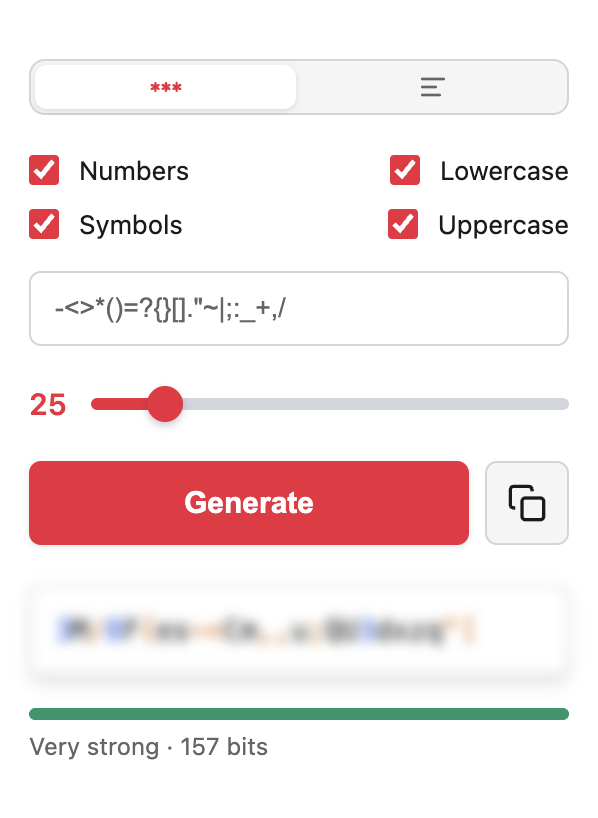
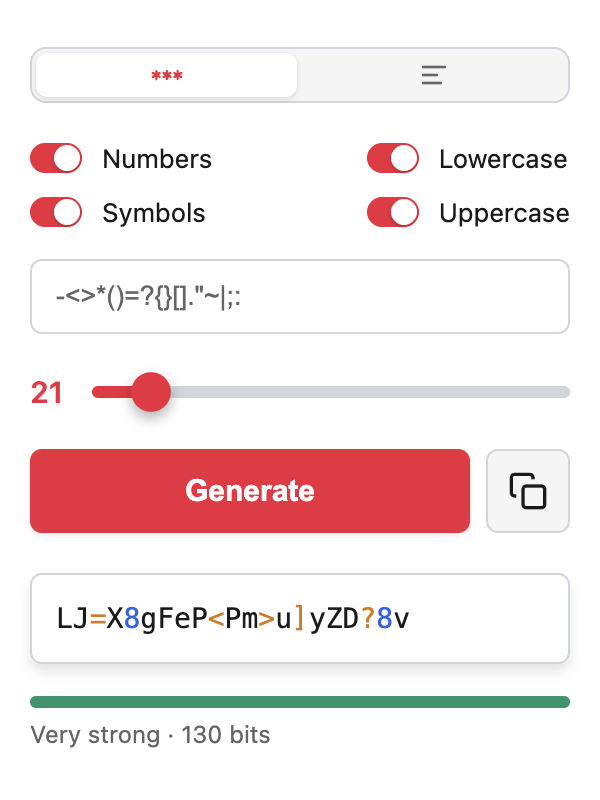
updated landing (#9)

diff --git a/docs/landing.43598116.css b/docs/landing.43598116.css
@@ -1,0 +1,2 @@
+/*! tailwindcss v4.1.18 | MIT License | https://tailwindcss.com */
+@layer properties{@supports (((-webkit-hyphens:none)) and (not (margin-trim:inline))) or ((-moz-orient:inline) and (not (color:rgb(from red r g b)))){*,:before,:after,::backdrop{--tw-rotate-x:initial;--tw-rotate-y:initial;--tw-rotate-z:initial;--tw-skew-x:initial;--tw-skew-y:initial;--tw-border-style:solid;--tw-leading:initial;--tw-font-weight:initial;--tw-blur:initial;--tw-brightness:initial;--tw-contrast:initial;--tw-grayscale:initial;--tw-hue-rotate:initial;--tw-invert:initial;--tw-opacity:initial;--tw-saturate:initial;--tw-sepia:initial;--tw-drop-shadow:initial;--tw-drop-shadow-color:initial;--tw-drop-shadow-alpha:100%;--tw-drop-shadow-size:initial}}}@layer theme{:root,:host{--font-sans:ui-sans-serif,system-ui,sans-serif,"Apple Color Emoji","Segoe UI Emoji","Segoe UI Symbol","Noto Color Emoji";--font-mono:ui-monospace,SFMono-Regular,Menlo,Monaco,Consolas,"Liberation Mono","Courier New",monospace;--spacing:.25rem;--container-md:28rem;--container-5xl:64rem;--text-xs:.75rem;--text-xs--line-height:calc(1/.75);--text-sm:.875rem;--text-sm--line-height:calc(1.25/.875);--text-4xl:2.25rem;--text-4xl--line-height:calc(2.5/2.25);--text-5xl:3rem;--text-5xl--line-height:1;--font-weight-light:300;--font-weight-bold:700;--leading-relaxed:1.625;--shadow-lg:0 10px 15px -3px #0000001a,0 4px 6px -4px #0000001a;--default-font-family:var(--font-sans);--default-mono-font-family:var(--font-mono)}}@layer base{*,:after,:before,::backdrop{box-sizing:border-box;border:0 solid;margin:0;padding:0}::file-selector-button{box-sizing:border-box;border:0 solid;margin:0;padding:0}html,:host{-webkit-text-size-adjust:100%;tab-size:4;line-height:1.5;font-family:var(--default-font-family,ui-sans-serif,system-ui,sans-serif,"Apple Color Emoji","Segoe UI Emoji","Segoe UI Symbol","Noto Color Emoji");font-feature-settings:var(--default-font-feature-settings,normal);font-variation-settings:var(--default-font-variation-settings,normal);-webkit-tap-highlight-color:transparent}hr{height:0;color:inherit;border-top-width:1px}abbr:where([title]){text-decoration:underline dotted}h1,h2,h3,h4,h5,h6{font-size:inherit;font-weight:inherit}a{color:inherit;-webkit-text-decoration:inherit;-webkit-text-decoration:inherit;-webkit-text-decoration:inherit;text-decoration:inherit}b,strong{font-weight:bolder}code,kbd,samp,pre{font-family:var(--default-mono-font-family,ui-monospace,SFMono-Regular,Menlo,Monaco,Consolas,"Liberation Mono","Courier New",monospace);font-feature-settings:var(--default-mono-font-feature-settings,normal);font-variation-settings:var(--default-mono-font-variation-settings,normal);font-size:1em}small{font-size:80%}sub,sup{vertical-align:baseline;font-size:75%;line-height:0;position:relative}sub{bottom:-.25em}sup{top:-.5em}table{text-indent:0;border-color:inherit;border-collapse:collapse}:-moz-focusring{outline:auto}progress{vertical-align:baseline}summary{display:list-item}ol,ul,menu{list-style:none}img,svg,video,canvas,audio,iframe,embed,object{vertical-align:middle;display:block}img,video{max-width:100%;height:auto}button,input,select,optgroup,textarea{font:inherit;font-feature-settings:inherit;font-variation-settings:inherit;letter-spacing:inherit;color:inherit;opacity:1;background-color:#0000;border-radius:0}::file-selector-button{font:inherit;font-feature-settings:inherit;font-variation-settings:inherit;letter-spacing:inherit;color:inherit;opacity:1;background-color:#0000;border-radius:0}:where(select:is([multiple],[size])) optgroup{font-weight:bolder}:where(select:is([multiple],[size])) optgroup option{padding-inline-start:20px}::file-selector-button{margin-inline-end:4px}::placeholder{opacity:1}@supports (not ((-webkit-appearance:-apple-pay-button))) or (contain-intrinsic-size:1px){::placeholder{color:currentColor}@supports (color:color-mix(in lab, red, red)){::placeholder{color:color-mix(in oklab,currentcolor 50%,transparent)}}}textarea{resize:vertical}::-webkit-search-decoration{-webkit-appearance:none}::-webkit-date-and-time-value{min-height:1lh;text-align:inherit}::-webkit-datetime-edit{display:inline-flex}::-webkit-datetime-edit-fields-wrapper{padding:0}::-webkit-datetime-edit{padding-block:0}::-webkit-datetime-edit-year-field{padding-block:0}::-webkit-datetime-edit-month-field{padding-block:0}::-webkit-datetime-edit-day-field{padding-block:0}::-webkit-datetime-edit-hour-field{padding-block:0}::-webkit-datetime-edit-minute-field{padding-block:0}::-webkit-datetime-edit-second-field{padding-block:0}::-webkit-datetime-edit-millisecond-field{padding-block:0}::-webkit-datetime-edit-meridiem-field{padding-block:0}::-webkit-calendar-picker-indicator{line-height:1}:-moz-ui-invalid{box-shadow:none}button,input:where([type=button],[type=reset],[type=submit]){appearance:button}::file-selector-button{appearance:button}::-webkit-inner-spin-button{height:auto}::-webkit-outer-spin-button{height:auto}[hidden]:where(:not([hidden=until-found])){display:none!important}}@layer components;@layer utilities{.visible{visibility:visible}.relative{position:relative}.top-2{top:calc(var(--spacing)*2)}.left-0\.5{left:calc(var(--spacing)*.5)}.order-1{order:1}.order-2{order:2}.container{width:100%}@media (width>=40rem){.container{max-width:40rem}}@media (width>=48rem){.container{max-width:48rem}}@media (width>=64rem){.container{max-width:64rem}}@media (width>=80rem){.container{max-width:80rem}}@media (width>=96rem){.container{max-width:96rem}}.mx-auto{margin-inline:auto}.mt-4{margin-top:calc(var(--spacing)*4)}.mt-8{margin-top:calc(var(--spacing)*8)}.flex{display:flex}.grid{display:grid}.hidden{display:none}.inline{display:inline}.min-h-10{min-height:calc(var(--spacing)*10)}.max-w-5xl{max-width:var(--container-5xl)}.max-w-md{max-width:var(--container-md)}.transform{transform:var(--tw-rotate-x, )var(--tw-rotate-y, )var(--tw-rotate-z, )var(--tw-skew-x, )var(--tw-skew-y, )}.cursor-pointer{cursor:pointer}.list-disc{list-style-type:disc}.items-center{align-items:center}.justify-center{justify-content:center}.gap-8{gap:calc(var(--spacing)*8)}.gap-10{gap:calc(var(--spacing)*10)}.border-t{border-top-style:var(--tw-border-style);border-top-width:1px}.border-b{border-bottom-style:var(--tw-border-style);border-bottom-width:1px}.px-6{padding-inline:calc(var(--spacing)*6)}.py-1{padding-block:calc(var(--spacing)*1)}.py-10{padding-block:calc(var(--spacing)*10)}.py-16{padding-block:calc(var(--spacing)*16)}.text-center{text-align:center}.text-sm{font-size:var(--text-sm);line-height:var(--tw-leading,var(--text-sm--line-height))}.text-xs{font-size:var(--text-xs);line-height:var(--tw-leading,var(--text-xs--line-height))}.leading-relaxed{--tw-leading:var(--leading-relaxed);line-height:var(--leading-relaxed)}.font-light{--tw-font-weight:var(--font-weight-light);font-weight:var(--font-weight-light)}.capitalize{text-transform:capitalize}.lowercase{text-transform:lowercase}.uppercase{text-transform:uppercase}.underline{text-decoration-line:underline}.underline-offset-2{text-underline-offset:2px}.blur{--tw-blur:blur(8px);filter:var(--tw-blur, )var(--tw-brightness, )var(--tw-contrast, )var(--tw-grayscale, )var(--tw-hue-rotate, )var(--tw-invert, )var(--tw-saturate, )var(--tw-sepia, )var(--tw-drop-shadow, )}.sepia{--tw-sepia:sepia(100%);filter:var(--tw-blur, )var(--tw-brightness, )var(--tw-contrast, )var(--tw-grayscale, )var(--tw-hue-rotate, )var(--tw-invert, )var(--tw-saturate, )var(--tw-sepia, )var(--tw-drop-shadow, )}.filter{filter:var(--tw-blur, )var(--tw-brightness, )var(--tw-contrast, )var(--tw-grayscale, )var(--tw-hue-rotate, )var(--tw-invert, )var(--tw-saturate, )var(--tw-sepia, )var(--tw-drop-shadow, )}@media (width>=48rem){.md\:order-1{order:1}.md\:order-2{order:2}.md\:grid-cols-2{grid-template-columns:repeat(2,minmax(0,1fr))}.md\:text-left{text-align:left}}}:root{--bg-primary:#fff;--bg-secondary:#f5f5f5;--bg-dark:#1e1e1e;--bg-input:#fff;--text-primary:#1a1a1a;--text-secondary:#666;--text-dark:#e5e5e5;--border-color:#d1d5db;--accent-color:#ef233c;--accent-hover:#029f96;--shadow:0 1px 3px #0000001a;--shadow-lg:0 4px 6px #0000001a}body{background-color:var(--bg-primary);color:var(--text-primary);font-family:system-ui,-apple-system,BlinkMacSystemFont,Segoe UI,Roboto,Oxygen,Ubuntu,Cantarell,Fira Sans,Droid Sans,Helvetica Neue,Arial,sans-serif}.title{font-size:var(--text-4xl);line-height:var(--tw-leading,var(--text-4xl--line-height));--tw-font-weight:var(--font-weight-bold);font-weight:var(--font-weight-bold);justify-content:center;align-items:center;display:flex}@media (width>=48rem){.title{font-size:var(--text-5xl);line-height:var(--tw-leading,var(--text-5xl--line-height))}}.title{color:var(--accent-color)}#duck{transition:transform .5s}.border-primary{border-color:var(--border-color)}.bg-secondary{background-color:var(--bg-secondary)}.bg-dark{background-color:var(--bg-dark)}.text-dark{color:var(--bg-dark)}.text-bg-dark{color:var(--text-dark)}.button{text-align:center;border-radius:.4rem;padding:.5rem 1rem;font-weight:500;transition:box-shadow .2s,background-color .2s}.button:hover{box-shadow:0 9px 17px #0000001f}.button.btn-icon.icon-chrome{color:#000;background-color:#c5e3ff}.button.btn-icon.icon-github{color:#fff;background-color:#000}.button.btn-icon{grid-column-gap:.75rem;grid-row-gap:.75rem;flex-direction:row;justify-content:center;align-items:center;text-decoration:none;display:flex}.icon-embed-sm{flex-direction:column;justify-content:center;align-items:center;width:1rem;height:1rem;display:flex}.screenshot{opacity:0;max-width:100%;height:auto;transition:all .6s ease-out}.screenshot.from-left{transform:translate(-60px)}.screenshot.from-right{transform:translate(60px)}.screenshot.visible{opacity:1;transform:translate(0)}section{position:relative;overflow:hidden}section:before{opacity:.05;pointer-events:none;z-index:0;font-size:100px;font-weight:700;position:absolute;top:50%;left:50%}section ul{z-index:1;padding:0;list-style:none;position:relative}section li{padding-left:1.35rem;position:relative}section li:before{content:"›";color:var(--accent-color);position:absolute;left:0}.section-1:before{content:"SECURE";transform:translateY(-99%)}.section-2:before{color:var(--bg-secondary);content:"PASSPHRASES";transform:translate(-98%,-99%)}.section-3:before{content:"CUSTOMIZE";transform:translate(-20%,-99%)}@property --tw-rotate-x{syntax:"*";inherits:false}@property --tw-rotate-y{syntax:"*";inherits:false}@property --tw-rotate-z{syntax:"*";inherits:false}@property --tw-skew-x{syntax:"*";inherits:false}@property --tw-skew-y{syntax:"*";inherits:false}@property --tw-border-style{syntax:"*";inherits:false;initial-value:solid}@property --tw-leading{syntax:"*";inherits:false}@property --tw-font-weight{syntax:"*";inherits:false}@property --tw-blur{syntax:"*";inherits:false}@property --tw-brightness{syntax:"*";inherits:false}@property --tw-contrast{syntax:"*";inherits:false}@property --tw-grayscale{syntax:"*";inherits:false}@property --tw-hue-rotate{syntax:"*";inherits:false}@property --tw-invert{syntax:"*";inherits:false}@property --tw-opacity{syntax:"*";inherits:false}@property --tw-saturate{syntax:"*";inherits:false}@property --tw-sepia{syntax:"*";inherits:false}@property --tw-drop-shadow{syntax:"*";inherits:false}@property --tw-drop-shadow-color{syntax:"*";inherits:false}@property --tw-drop-shadow-alpha{syntax:"<percentage>";inherits:false;initial-value:100%}@property --tw-drop-shadow-size{syntax:"*";inherits:false}

diff --git a/docs/index.html b/docs/index.html
@@ -1,11 +1,11 @@
-<!DOCTYPE html><html lang=en><meta charset=UTF-8><meta name=viewport content="width=device-width, initial-scale=1.0"><meta name=keywords content="password generator, browser extension, online security, privacy tools"><title>PassDuck</title><link rel=icon type=image/png sizes=96x96 href=/passduck/logo.d0e6ea66.png><link href=/passduck/landing.861bc158.css rel=stylesheet><script>function isSafari(){return/^((?!chrome|chromium|android).)*safari/i.test(navigator.userAgent)}function isChromium(){return!!window.chrome&&/chrome|chromium|crios/i.test(navigator.userAgent)}document.addEventListener("DOMContentLoaded",()=>{document.getElementById("year").innerText=new Date().getFullYear().toString(),isChromium()?document.getElementById("browser-1").hidden=!1:isSafari()&&(document.getElementById("browser-2").hidden=!1),document.getElementById("source").hidden=!1});</script><body>
+<!DOCTYPE html><html lang=en><meta charset=UTF-8><meta name=viewport content="width=device-width, initial-scale=1.0"><meta name=keywords content="password generator, browser extension, online security, privacy tools"><title>PassDuck</title><link rel=icon type=image/png sizes=96x96 href=/passduck/logo.d0e6ea66.png><link href=/passduck/landing.43598116.css rel=stylesheet><script>function isSafari(){return/^((?!chrome|chromium|android).)*safari/i.test(navigator.userAgent)}function isChromium(){return!!window.chrome&&/chrome|chromium|crios/i.test(navigator.userAgent)}document.addEventListener("DOMContentLoaded",()=>{document.getElementById("year").innerText=new Date().getFullYear().toString(),isChromium()?document.getElementById("browser-1").hidden=!1:isSafari()&&(document.getElementById("browser-2").hidden=!1),document.getElementById("source").hidden=!1});</script><body>
     <header class="border-b border-primary px-6 py-10 text-center">
       <h1 class=title>
         <span class=inline>
-          <img id=duck class="cursor-pointer relative top-2" src=/passduck/logo.d0e6ea66.png width=32 height=32 alt=PassDuck>PassDuck
+          <img id=duck class="cursor-pointer left-0.5 relative top-2" src=/passduck/logo.d0e6ea66.png width=24 height=24 alt=PassDuck><span class=text-dark>Pass</span>Duck
         </span>
       </h1>
-      <p class="font-light max-w-md mt-4 mx-auto text-secondary">
+      <p class="font-light leading-relaxed max-w-md mt-4 mx-auto text-secondary">
         A lightweight extension for instantly generating strong, <br>
         secure passwords.
       </p>
@@ -51,17 +51,24 @@
           <div>Open Source</div>
         </a>
       </div>
+
+      <p class="mt-4 text-secondary text-xs">
+        Also available for
+        <a href="https://apps.apple.com/app/passduck-password-generator/id6756817549?mt=12"><span class="underline underline-offset-2">Safari</span></a>
+        on macOS and
+        <a class="underline underline-offset-2" href=https://chromewebstore.google.com/detail/nenogephcifkngdiakjgojpjdhekhkpj>Chrome, Brave</a>.
+      </p>
     </header>
 
     
     <section class="border-b border-primary px-6 py-16 section-1">
       <div class="gap-10 grid items-center max-w-5xl md:grid-cols-2 mx-auto">
         <div class="from-left screenshot">
-          <img src=/passduck/s-1.4f93400f.png width=400 height=400>
+          <img src=/passduck/s-1.2d182222.png width=320 height=320>
         </div>
         <div class="md:text-left text-center">
           <ul class=list-disc>
-            <li class="border-b-2 border-b-red-600 inline-flex py-1">
+            <li class=py-1>
               Cryptographically secure random generation.
             </li>
             <li class=py-1>Real-time entropy meter.</li>
@@ -77,19 +84,20 @@
     
     <section class="bg-dark border-b border-primary px-6 py-16 section-2">
       <div class="gap-10 grid items-center max-w-5xl md:grid-cols-2 mx-auto">
-        <div class="md:order-1 md:text-left order-2 text-center text-dark">
+        <div class="md:order-1 md:text-left order-2 text-bg-dark text-center">
           <ul class=list-disc>
-            <li class="border-b-2 border-b-amber-600 inline-flex py-1">
+            <li class=py-1>
               Generate passphrases from curated word lists.
             </li>
             <li class=py-1>Adjustable word count for your security needs.</li>
             <li class=py-1>
               Words in English or German for universal compatibility.
             </li>
+            <li class=py-1>Multilingual localization.</li>
           </ul>
         </div>
         <div class="from-right md:order-2 order-1 screenshot">
-          <img src=/passduck/s-2.7c5a4d0a.png width=400 height=400>
+          <img src=/passduck/s-2.058fafd7.png width=320 height=320>
         </div>
       </div>
     </section>
@@ -98,17 +106,18 @@
     <section class="border-b border-primary px-6 py-16 section-3">
       <div class="gap-10 grid items-center max-w-5xl md:grid-cols-2 mx-auto">
         <div class="from-left screenshot">
-          <img src=/passduck/s-3.0cd3a07e.png width=400 height=400>
+          <img src=/passduck/s-3.6a2cb0a3.png width=320 height=320>
         </div>
         <div class="md:text-left text-center">
           <ul class=list-disc>
-            <li class="border-b-2 border-b-purple-600 inline-flex py-1">
+            <li class=py-1>
               Customize your preferred character set.
             </li>
             <li class=py-1>Adjust password length.</li>
+            <li class=py-1>Persisted states in settings.</li>
             <li class=py-1>
               Dark theme support
-              <span class=text-sm>(based on system preference)</span>.
+              <span class=text-sm>(based on OS preference)</span>.
             </li>
           </ul>
         </div>

diff --git a/landing/index.html b/landing/index.html
@@ -45,15 +45,15 @@
         <span class="inline">
           <img
             id="duck"
-            class="relative top-2 cursor-pointer"
+            class="relative top-2 left-0.5 cursor-pointer"
             src="logo.png"
-            width="32"
-            height="32"
+            width="24"
+            height="24"
             alt="PassDuck"
-          />PassDuck
+          /><span class="text-dark">Pass</span>Duck
         </span>
       </h1>
-      <p class="mt-4 text-secondary max-w-md mx-auto font-light">
+      <p class="mt-4 text-secondary max-w-md mx-auto font-light leading-relaxed">
         A lightweight extension for instantly generating strong, <br />
         secure passwords.
       </p>
@@ -144,17 +144,31 @@
           <div>Open Source</div>
         </a>
       </div>
+
+      <p class="mt-4 text-secondary text-xs">
+        Also available for
+        <a
+          href="https://apps.apple.com/app/passduck-password-generator/id6756817549?mt=12"
+        ><span class="underline underline-offset-2">Safari</span></a
+        >
+        on macOS and
+        <a
+          class="underline underline-offset-2"
+          href="https://chromewebstore.google.com/detail/nenogephcifkngdiakjgojpjdhekhkpj"
+          >Chrome, Brave</a
+        >.
+      </p>
     </header>
 
     <!-- Section 1 -->
     <section class="py-16 px-6 border-b border-primary section-1">
       <div class="max-w-5xl mx-auto grid md:grid-cols-2 gap-10 items-center">
         <div class="screenshot from-left">
-          <img src="s-1.png" width="400" height="400" />
+          <img src="s-1.png" width="320" height="320" />
         </div>
         <div class="text-center md:text-left">
           <ul class="list-disc">
-            <li class="py-1 border-b-2 border-b-red-600 inline-flex">
+            <li class="py-1">
               Cryptographically secure random generation.
             </li>
             <li class="py-1">Real-time entropy meter.</li>
@@ -170,19 +184,20 @@
     <!-- Section 2 -->
     <section class="py-16 px-6 bg-dark border-b border-primary section-2">
       <div class="max-w-5xl mx-auto grid md:grid-cols-2 gap-10 items-center">
-        <div class="text-center text-dark md:text-left order-2 md:order-1">
+        <div class="text-center text-bg-dark md:text-left order-2 md:order-1">
           <ul class="list-disc">
-            <li class="py-1 border-b-2 border-b-amber-600 inline-flex">
+            <li class="py-1">
               Generate passphrases from curated word lists.
             </li>
             <li class="py-1">Adjustable word count for your security needs.</li>
             <li class="py-1">
               Words in English or German for universal compatibility.
             </li>
+            <li class="py-1">Multilingual localization.</li>
           </ul>
         </div>
         <div class="screenshot from-right order-1 md:order-2">
-          <img src="s-2.png" width="400" height="400" />
+          <img src="s-2.png" width="320" height="320" />
         </div>
       </div>
     </section>
@@ -191,17 +206,18 @@
     <section class="py-16 px-6 border-b border-primary section-3">
       <div class="max-w-5xl mx-auto grid md:grid-cols-2 gap-10 items-center">
         <div class="screenshot from-left">
-          <img src="s-3.png" width="400" height="400" />
+          <img src="s-3.png" width="320" height="320" />
         </div>
         <div class="text-center md:text-left">
           <ul class="list-disc">
-            <li class="py-1 border-b-2 border-b-purple-600 inline-flex">
+            <li class="py-1">
               Customize your preferred character set.
             </li>
             <li class="py-1">Adjust password length.</li>
+            <li class="py-1">Persisted states in settings.</li>
             <li class="py-1">
               Dark theme support
-              <span class="text-sm">(based on system preference)</span>.
+              <span class="text-sm">(based on OS preference)</span>.
             </li>
           </ul>
         </div>

diff --git a/landing/index.css b/landing/index.css
@@ -56,6 +56,10 @@ body {
 }
 
 .text-dark {
+  color: var(--bg-dark);
+}
+
+.text-bg-dark {
   color: var(--text-dark);
 }
 
@@ -142,20 +146,34 @@ section::before {
 section ul {
   position: relative;
   z-index: 1;
+  list-style: none;
+  padding: 0;
+}
+
+section li {
+  padding-left: 1.35rem;
+  position: relative;
+}
+
+section li::before {
+  content: '›';
+  position: absolute;
+  left: 0;
+  color: var(--accent-color);
 }
 
 .section-1::before {
   content: 'SECURE';
-  transform: translate(-4%, -97%);
+  transform: translate(0, -99%);
 }
 
 .section-2::before {
   color: var(--bg-secondary);
   content: 'PASSPHRASES';
-  transform: translate(-100%, -86%);
+  transform: translate(-98%, -99%);
 }
 
 .section-3::before {
   content: 'CUSTOMIZE';
-  transform: translate(-20%, -86%);
+  transform: translate(-20%, -99%);
 }
